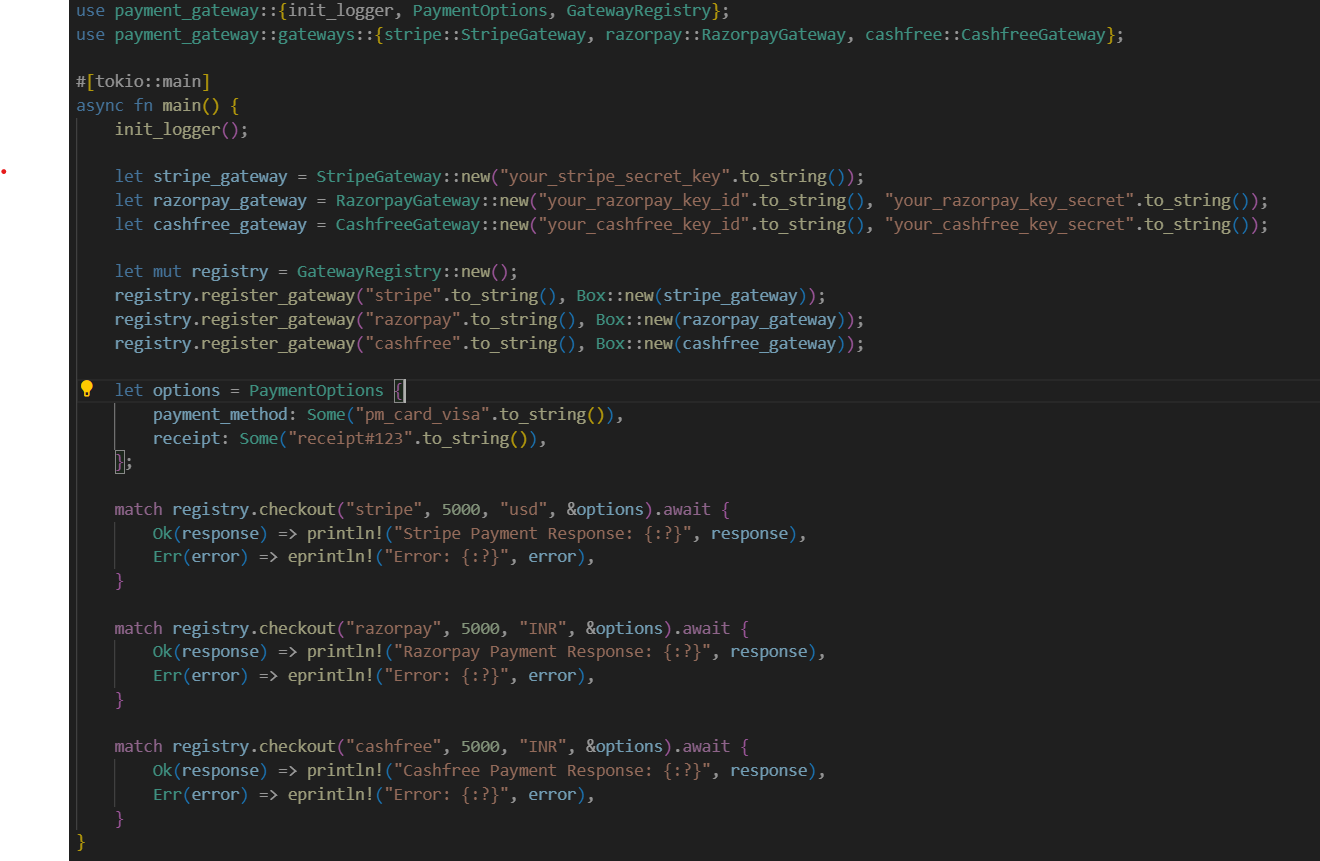
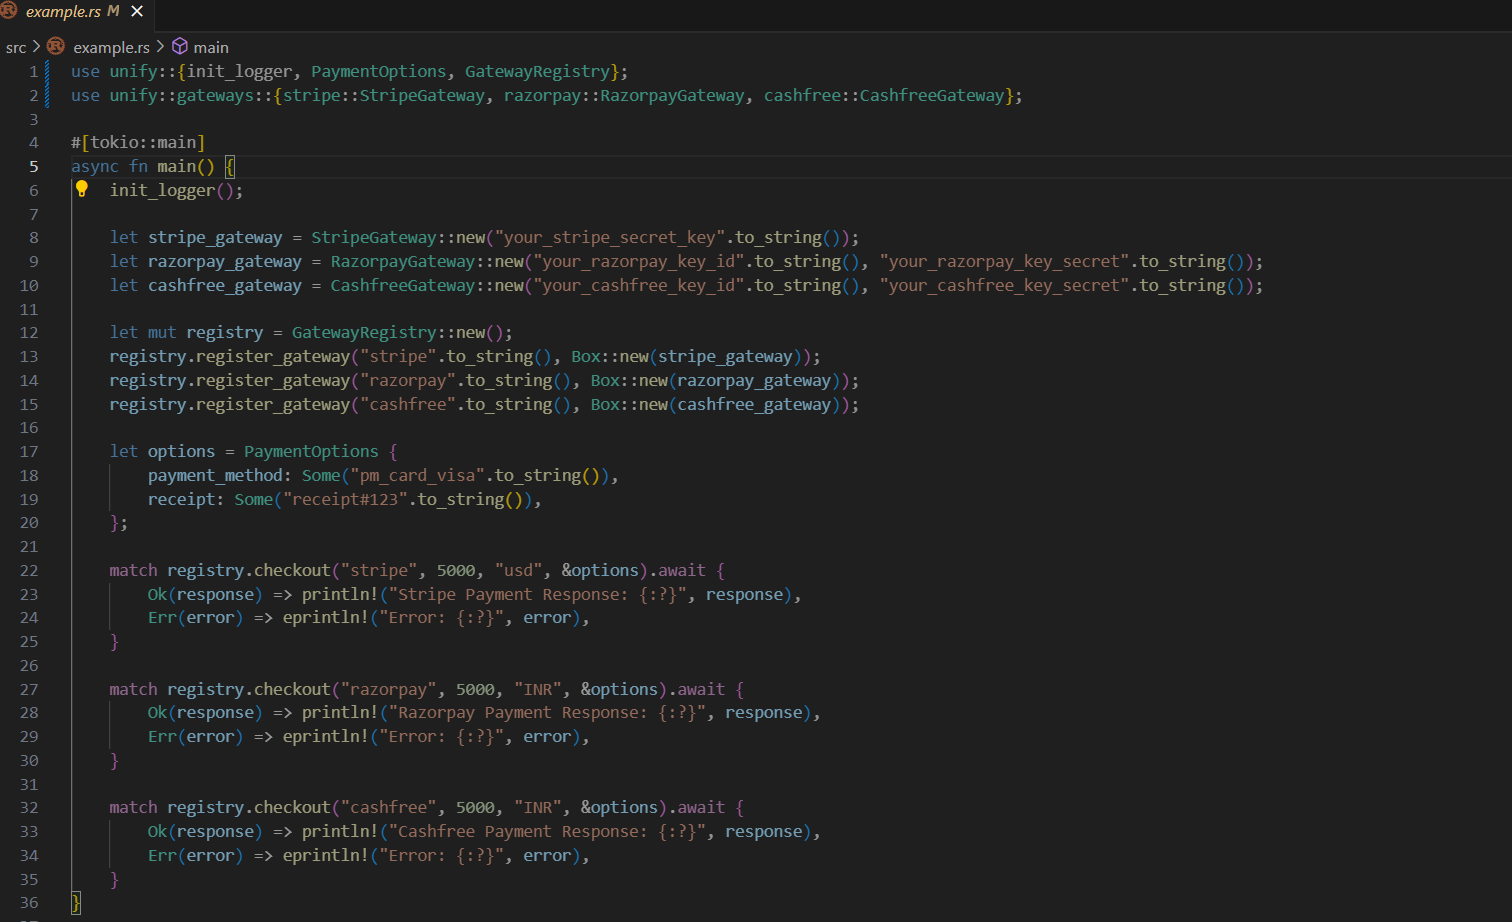
update example file

Changed region(s): [[0.0, 0.0, 0.9629, 1.0]]

diff --git a/src/example.rs b/src/example.rs
@@ -1,5 +1,5 @@
-use payment_gateway::{init_logger, PaymentOptions, GatewayRegistry};
-use payment_gateway::gateways::{stripe::StripeGateway, razorpay::RazorpayGateway, cashfree::CashfreeGateway};
+use unify::{init_logger, PaymentOptions, GatewayRegistry};
+use unify::gateways::{stripe::StripeGateway, razorpay::RazorpayGateway, cashfree::CashfreeGateway};
 
 #[tokio::main]
 async fn main() {
